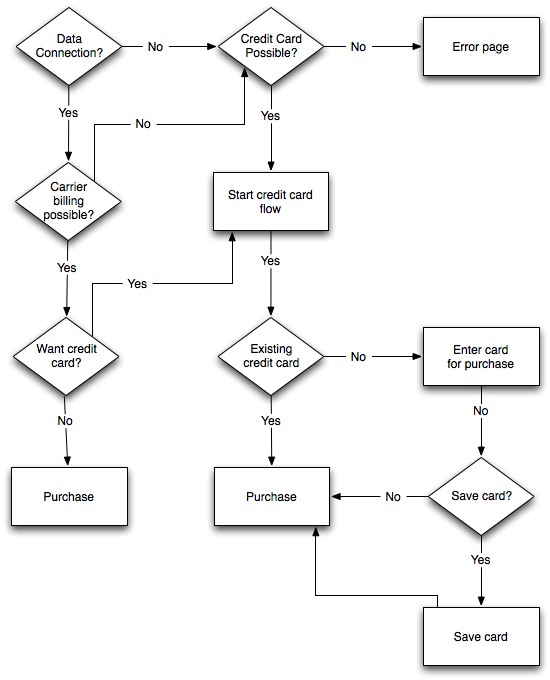
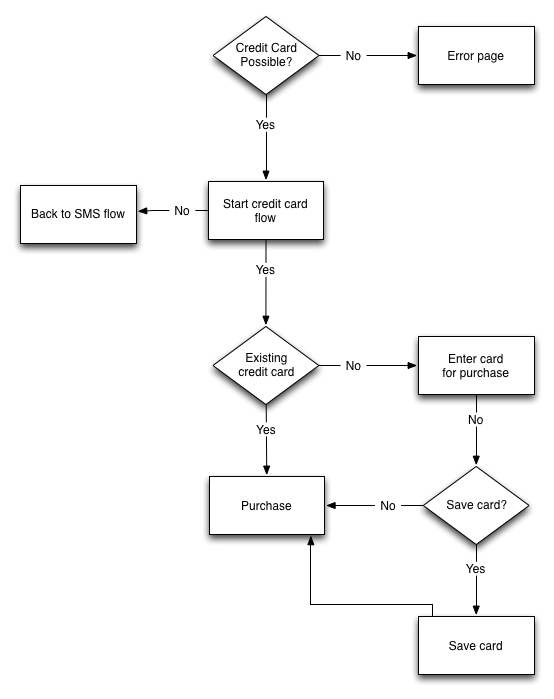
bango identity changes

diff --git a/docs/flow.rst b/docs/flow.rst
@@ -4,7 +4,12 @@
 End To End Payment Flow
 =======================
 
-This page covers the payment flows for the whole process. These exist to explain to other payment processors how the whole payment flow works.
+This page covers the payment flows for the whole process. These exist to explain to other payment processors how the whole payment flow works. Please note that these flows will vary depending upon the payment provider capabilities. Things that will affect the flow are inlcuded but not limited to:
+
+* If the payment provider supports operator billing
+* If the payment provider supports credit card
+* If the payment provider supports and remembers an identity from the
+  marketplace
 
 Step 1: Click Buy
 -----------------
@@ -13,10 +18,10 @@ User clicks buy, JWT is prepared and the payment flow starts.
 
 .. image:: diagrams/buy-flow-part-one.png
 
-Step 2 (if required): Persona Login
------------------------------------
+Step 2 (if required): Firefox Account Login
+-------------------------------------------
 
-User authenticates using Persona.
+User authenticates using Firefox Accounts.
 
 Step 3: PIN
 -----------
@@ -30,16 +35,17 @@ Payment starts.
 
 .. image:: diagrams/buy-flow-part-four.png
 
-Step 5: Carrier Authentication
-------------------------------
+Step 5: Carrier billing
+-----------------------
 
-Attempt to identify phone for carrier.
+Attempt to identify phone on the carrier. Will use header enrichment
+or SMS.
 
 .. image:: diagrams/auth-flow.png
 
-Step 6: Payment Choice
-----------------------
+Step 6: Credit card
+-------------------
 
-User chooses payment method.
+User chooses credit card or returns to carrier billing.
 
 .. image:: diagrams/buy-flow.png

diff --git a/docs/payments.rst b/docs/payments.rst
@@ -148,8 +148,6 @@ This API enables you to begin a transaction so that a product can be purchased.
 Carrier Authentication
 ----------------------
 
-.. note:: This shows what is existing in production with Bango as of Nov 2013.
-
 This is a basic flow for how carrier authentication works.
 
 .. image:: diagrams/auth-flow.png
@@ -185,8 +183,6 @@ Example:
 
 Credit card or carrier billing
 ~~~~~~~~~~~~~~~~~~~~~~~~~~~~~~
-
-.. note:: This shows what is existing in production with Bango as of Nov 2013.
 
 Currently when a user lands on the buy page, the user has to choose between
 using carrier billing or a credit card. This diagram outlines the choices.
